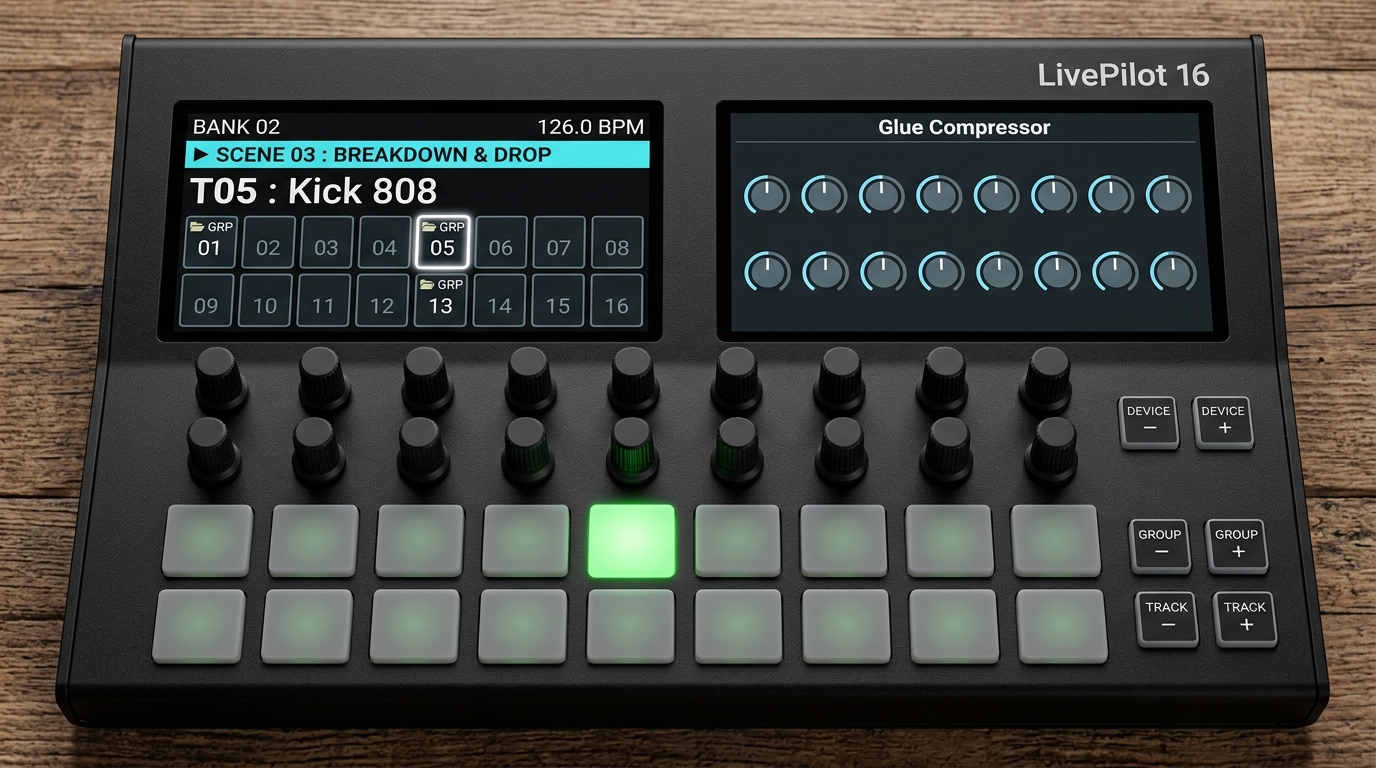
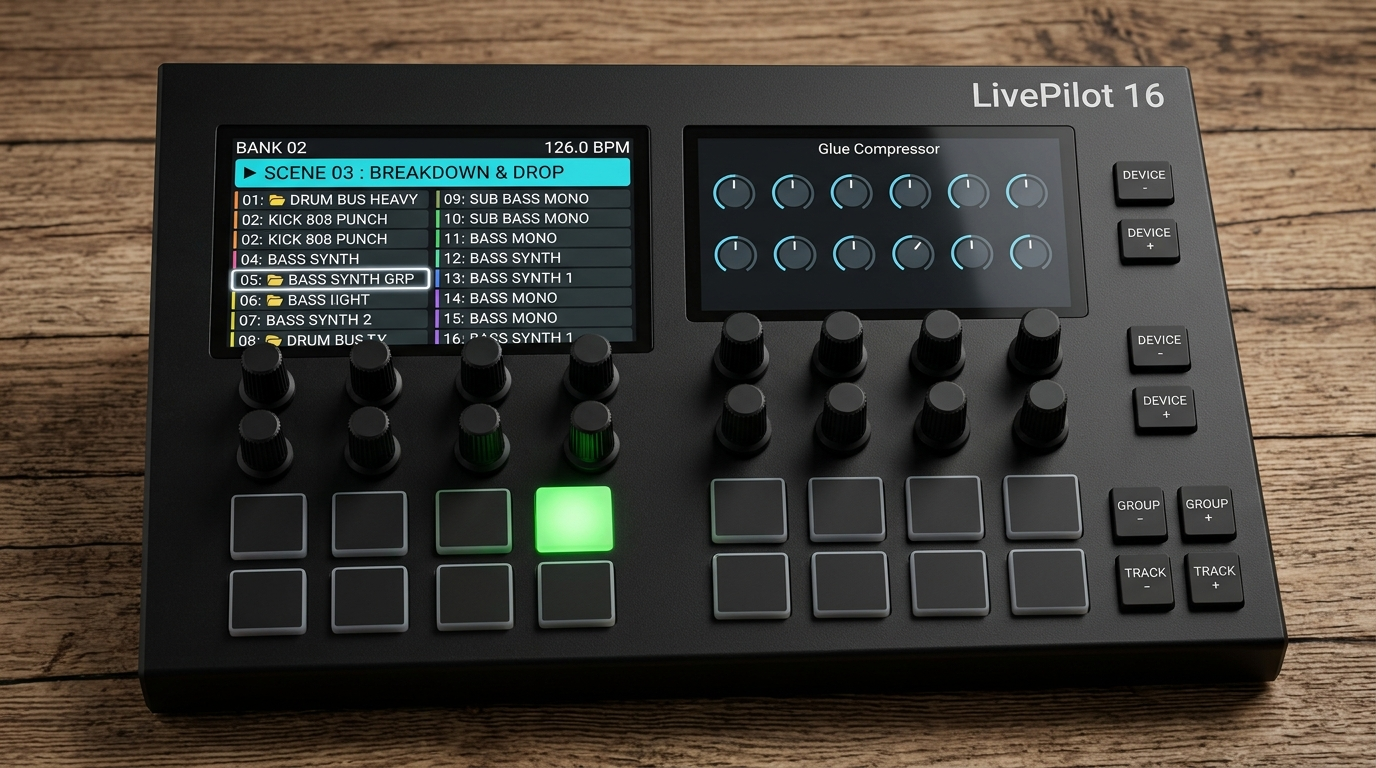
feat(ui): implement dual vertical column track layout (2x8) for full 16-20 character track readability on left screen

diff --git a/firmware/src/main.cpp b/firmware/src/main.cpp
@@ -89,13 +89,13 @@ void TaskCore1_UI(void *pvParameters) {
         //    - CMD_PARAM_DATA : maj des 16 valeurs/noms de paramètres
         
         // 2. Rendu Écran Gauche (Vue Mix & Session - CS GPIO 10, 480x320) :
-        //    - Ligne 1 (Y: 0..28) : [BANK 02] à gauche, [GRP] Nom_Groupe au centre, 126.0 BPM en haut à droite !
-        //    - Ligne 2 (Y: 30..62) : BANDEAU SCÈNE PLEINE LARGEUR (Fond avec la COULEUR EXACTE Ableton, texte condensé "▶ SCÈNE 03 : BREAKDOWN & DROP")
-        //    - Ligne 3 (Y: 66..115) : Grand bandeau dédié pleine largeur de la piste sélectionnée (T05: Kick 808)
-        //    - Ligne 4 (Y: 120..315) : MATRICE STRICTE 2x8 (16 pistes au total, 8 en haut, 8 en bas) :
-        //      * Une SEULE piste sélectionnée active : contour blanc néon + flèche ▶ (miroir du pad allumé)
-        //      * Identification instantanée des GROUPES : badge d'en-tête [GRP 📁] avec double bandeau dossier
-        //      * 15 autres pistes en affichage standard tamisé avec leurs couleurs respectives Ableton
+        //    - Ligne 1 (Y: 0..26) : [BANK 02] à gauche, 126.0 BPM en haut à droite !
+        //    - Ligne 2 (Y: 28..58) : BANDEAU SCÈNE PLEINE LARGEUR (Fond couleur Ableton, texte condensé "▶ SCÈNE 03 : BREAKDOWN & DROP")
+        //    - Zone Pistes (Y: 62..318) : 2 GRANDES COLONNES VERTICALES DE 8 PISTES (Lisibilité maximale 16-20 caractères) :
+        //      * Colonne Gauche (X: 2..238) : Pistes 01 à 08 (correspondant 1:1 à la Rangée Haute des pads 1-8)
+        //      * Colonne Droite (X: 242..478) : Pistes 09 à 16 (correspondant 1:1 à la Rangée Basse des pads 9-16)
+        //      * Largeur de 236 px par piste : affiche le nom complet en toutes lettres sans tronquer !
+        //      * Badge [📁] pour les GROUPES et surbrillance blanche néon unique pour la piste active (ex: ▶05: BASS SYNTH GRP)
         
         // 3. Rendu Écran Droit (Vue Plugins & 16 Paramètres - CS GPIO 38) :
         //    - Affichage du plugin actif et indicateur de pagination (> 1)

diff --git a/CAHIER_DES_CHARGES.md b/CAHIER_DES_CHARGES.md
@@ -161,20 +161,24 @@ L'architecture à deux écrans couleur IPS séparés apporte la clarté visuelle
 
 `	ext
 ┌──────────────────────────────────────────────────┐  ┌──────────────────────────────────────────────────┐
-│           ÉCRAN GAUCHE : MIX & SESSION (2x8)     │  │        ÉCRAN DROIT : PLUGINS & PARAMS (2x8)      │
+│           ÉCRAN GAUCHE : MIX & SESSION           │  │        ÉCRAN DROIT : PLUGINS & PARAMS (2x8)      │
 ├──────────────────────────────────────────────────┤  ├──────────────────────────────────────────────────┤
-│ [BANK 02]       [GRP] DRUMS            126.0 BPM │  │ ACTIVE DEVICE : [D02/03] Glue Compressor         │
+│ [BANK 02]                   126.0 BPM            │  │ ACTIVE DEVICE : [D02/03] Glue Compressor         │
 ├──────────────────────────────────────────────────┤  ├──────────────────────────────────────────────────┤
-│ ▶ SCÈNE 03 : BREAKDOWN & LONG DROP (REFRAIN)     │  │ RANGÉE HAUTE (Encodeurs 1 à 8) :                 │
-│ (Police condensée pour texte long, FOND ABLETON) │  │ [E01]  [E02]  [E03]  [E04]  [E05]  [E06]  [E07]  [E08] │
-├──────────────────────────────────────────────────┤  │ Thres  Ratio  Attak  Relea  Makeu  Dry/W  Range  Sidec │
-│ >>> T23 : [GRP] DRUM BUS <<<                     │  │ -18dB   4:1    1ms   0.2s   +4dB   100%   -inf   On    │
-│ (Bandeau Piste Active / Blanc si non assigné)    │  ├──────────────────────────────────────────────────┤
-├──────────────────────────────────────────────────┤  │ RANGÉE BASSE (Encodeurs 9 à 16) :                │
-│ RUBAN MIROIR 2x8 (Numéros & Noms ultra-lisibles) │  │ [E09]  [E10]  [E11]  [E12]  [E13]  [E14]  [E15]  [E16] │
-│ R1: [17:Kick] [18:Snar] [19:HiHt] [20:Clap]...   │  │ HPFrq  Clip   Macr1  Macr2  Macr3  Macr4  Macr5  Macr6 │
-│ R2: [25:Bass] [26:Synt] [>23:Drum<] [28:Vox]...  │  │ 120Hz   On    50%    25%    75%    0%     100%   ---   │
-└──────────────────────────────────────────────────┘  └──────────────────────────────────────────────────┘
+│ ▶ SCÈNE 03 : BREAKDOWN & DROP                    │  │ RANGÉE HAUTE (Encodeurs 1 à 8) :                 │
+│ (Bandeau pleine largeur, COULEUR ABLETON)        │  │ [E01]  [E02]  [E03]  [E04]  [E05]  [E06]  [E07]  [E08] │
+├────────────────────────┬─────────────────────────┤  │ Thres  Ratio  Attak  Relea  Makeu  Dry/W  Range  Sidec │
+│ COL. GAUCHE (Pads 1-8) │ COL. DROITE (Pads 9-16) │  │ -18dB   4:1    1ms   0.2s   +4dB   100%   -inf   On    │
+├────────────────────────┼─────────────────────────┤  ├──────────────────────────────────────────────────┤
+│ 01: 📁 DRUM BUS HEAVY  │ 09: SUB BASS MONO       │  │ RANGÉE BASSE (Encodeurs 9 à 16) :                │
+│ 02: KICK 808 PUNCH     │ 10: ACID LEAD 303       │  │ [E09]  [E10]  [E11]  [E12]  [E13]  [E14]  [E15]  [E16] │
+│ 03: SNARE TOP LAYER    │ 11: PLUCK ARP STEREO    │  │ HPFrq  Clip   Macr1  Macr2  Macr3  Macr4  Macr5  Macr6 │
+│ 04: CLOSED HI-HAT      │ 12: CHORD PAD WARM      │  │ 120Hz   On    50%    25%    75%    0%     100%   ---   │
+│>05: 📁 BASS SYNTH GRP< │ 13: 📁 VOX BUS MAIN     │  └──────────────────────────────────────────────────┘
+│ 06: PERCUSSION LOOP    │ 14: LEAD VOCAL DRY      │
+│ 07: CLAP ROOM REVERB   │ 15: BACKING VOX WIDE    │
+│ 08: OPEN HAT 909       │ 16: RISER & IMPACT FX   │
+└────────────────────────┴─────────────────────────┘
 `
 
 #### Réponse au Défi Ergonomique : Comment identifier la piste DRUM (Piste 23) en 1 seconde ?

diff --git a/doc/CAHIER_DES_CHARGES.md b/doc/CAHIER_DES_CHARGES.md
@@ -161,20 +161,24 @@ L'architecture à deux écrans couleur IPS séparés apporte la clarté visuelle
 
 `	ext
 ┌──────────────────────────────────────────────────┐  ┌──────────────────────────────────────────────────┐
-│           ÉCRAN GAUCHE : MIX & SESSION (2x8)     │  │        ÉCRAN DROIT : PLUGINS & PARAMS (2x8)      │
+│           ÉCRAN GAUCHE : MIX & SESSION           │  │        ÉCRAN DROIT : PLUGINS & PARAMS (2x8)      │
 ├──────────────────────────────────────────────────┤  ├──────────────────────────────────────────────────┤
-│ [BANK 02]       [GRP] DRUMS            126.0 BPM │  │ ACTIVE DEVICE : [D02/03] Glue Compressor         │
+│ [BANK 02]                   126.0 BPM            │  │ ACTIVE DEVICE : [D02/03] Glue Compressor         │
 ├──────────────────────────────────────────────────┤  ├──────────────────────────────────────────────────┤
-│ ▶ SCÈNE 03 : BREAKDOWN & LONG DROP (REFRAIN)     │  │ RANGÉE HAUTE (Encodeurs 1 à 8) :                 │
-│ (Police condensée pour texte long, FOND ABLETON) │  │ [E01]  [E02]  [E03]  [E04]  [E05]  [E06]  [E07]  [E08] │
-├──────────────────────────────────────────────────┤  │ Thres  Ratio  Attak  Relea  Makeu  Dry/W  Range  Sidec │
-│ >>> T23 : [GRP] DRUM BUS <<<                     │  │ -18dB   4:1    1ms   0.2s   +4dB   100%   -inf   On    │
-│ (Bandeau Piste Active / Blanc si non assigné)    │  ├──────────────────────────────────────────────────┤
-├──────────────────────────────────────────────────┤  │ RANGÉE BASSE (Encodeurs 9 à 16) :                │
-│ RUBAN MIROIR 2x8 (Numéros & Noms ultra-lisibles) │  │ [E09]  [E10]  [E11]  [E12]  [E13]  [E14]  [E15]  [E16] │
-│ R1: [17:Kick] [18:Snar] [19:HiHt] [20:Clap]...   │  │ HPFrq  Clip   Macr1  Macr2  Macr3  Macr4  Macr5  Macr6 │
-│ R2: [25:Bass] [26:Synt] [>23:Drum<] [28:Vox]...  │  │ 120Hz   On    50%    25%    75%    0%     100%   ---   │
-└──────────────────────────────────────────────────┘  └──────────────────────────────────────────────────┘
+│ ▶ SCÈNE 03 : BREAKDOWN & DROP                    │  │ RANGÉE HAUTE (Encodeurs 1 à 8) :                 │
+│ (Bandeau pleine largeur, COULEUR ABLETON)        │  │ [E01]  [E02]  [E03]  [E04]  [E05]  [E06]  [E07]  [E08] │
+├────────────────────────┬─────────────────────────┤  │ Thres  Ratio  Attak  Relea  Makeu  Dry/W  Range  Sidec │
+│ COL. GAUCHE (Pads 1-8) │ COL. DROITE (Pads 9-16) │  │ -18dB   4:1    1ms   0.2s   +4dB   100%   -inf   On    │
+├────────────────────────┼─────────────────────────┤  ├──────────────────────────────────────────────────┤
+│ 01: 📁 DRUM BUS HEAVY  │ 09: SUB BASS MONO       │  │ RANGÉE BASSE (Encodeurs 9 à 16) :                │
+│ 02: KICK 808 PUNCH     │ 10: ACID LEAD 303       │  │ [E09]  [E10]  [E11]  [E12]  [E13]  [E14]  [E15]  [E16] │
+│ 03: SNARE TOP LAYER    │ 11: PLUCK ARP STEREO    │  │ HPFrq  Clip   Macr1  Macr2  Macr3  Macr4  Macr5  Macr6 │
+│ 04: CLOSED HI-HAT      │ 12: CHORD PAD WARM      │  │ 120Hz   On    50%    25%    75%    0%     100%   ---   │
+│>05: 📁 BASS SYNTH GRP< │ 13: 📁 VOX BUS MAIN     │  └──────────────────────────────────────────────────┘
+│ 06: PERCUSSION LOOP    │ 14: LEAD VOCAL DRY      │
+│ 07: CLAP ROOM REVERB   │ 15: BACKING VOX WIDE    │
+│ 08: OPEN HAT 909       │ 16: RISER & IMPACT FX   │
+└────────────────────────┴─────────────────────────┘
 `
 
 #### Réponse au Défi Ergonomique : Comment identifier la piste DRUM (Piste 23) en 1 seconde ?
